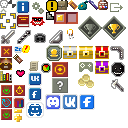
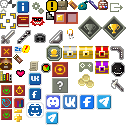
add link to tg group

Changed region(s): [[0.75, 0.7188, 0.875, 0.875], [0.3438, 0.8438, 0.4688, 1.0]]

diff --git a/RemixedDungeon/src/main/java/com/watabou/pixeldungeon/scenes/TitleScene.java b/RemixedDungeon/src/main/java/com/watabou/pixeldungeon/scenes/TitleScene.java
@@ -163,24 +163,34 @@ public class TitleScene extends PixelScene {
         }
 
         String lang = GamePreferences.uiLanguage();
-        final boolean useVk = lang.equals("ru");
+        final boolean ruUser = lang.equals("ru");
 
-        Icons social = useVk ? Icons.VK : Icons.FB;
-        if (useVk) {
+        Icons social = ruUser ? Icons.VK : Icons.FB;
+        if (ruUser) {
             leftGroup.add(new ImageButton(social.get()) {
                 @Override
                 protected void onClick() {
-                    Game.instance().openUrl("Visit us on social network", useVk ? "https://vk.com/pixel_dungeon_remix" : "https://fb.me/RemixedDungeon");
+                    Game.instance().openUrl("Visit us on social network", ruUser ? "https://vk.com/pixel_dungeon_remix" : "https://fb.me/RemixedDungeon");
                 }
             });
         }
 
-        leftGroup.add(new ImageButton(Icons.DISCORD.get()) {
+        if(!ruUser) {
+            leftGroup.add(new ImageButton(Icons.DISCORD.get()) {
+                @Override
+                protected void onClick() {
+                    Game.instance().openUrl("Let talk on Discord", "https://discord.gg/AMXrhQZ");
+                }
+            });
+        }
+
+        leftGroup.add(new ImageButton(Icons.TG.get()) {
             @Override
             protected void onClick() {
-                Game.instance().openUrl("Let talk on Discord", "https://discord.gg/AMXrhQZ");
+                Game.instance().openUrl("Join our Telegram group", "https://t.me/RemixedDungeon");
             }
         });
+
 
         Image img = new Image(Assets.DASHBOARD, DashboardItem.IMAGE_SIZE, 1);
 

diff --git a/RemixedDungeon/src/main/java/com/watabou/pixeldungeon/ui/Icons.java b/RemixedDungeon/src/main/java/com/watabou/pixeldungeon/ui/Icons.java
@@ -72,6 +72,7 @@ public enum Icons {
     GNOLL,
     VK,
     FB,
+    TG,
     DISCORD,
     PLUS,
     MINUS,
@@ -238,6 +239,9 @@ public enum Icons {
                 break;
             case FB:
                 icon.frame(icon.texture.uvRect(79, 94, 95, 110));
+                break;
+            case TG:
+                icon.frame(icon.texture.uvRect(96,94, 111, 110));
                 break;
             case DISCORD:
                 icon.frame(icon.texture.uvRect(45, 94, 61, 110));

diff --git a/RemixedDungeon/src/android/java/com/nyrds/platform/app/RemixedDungeonApp.java b/RemixedDungeon/src/android/java/com/nyrds/platform/app/RemixedDungeonApp.java
@@ -57,7 +57,7 @@ public class RemixedDungeonApp extends MultiDexApplication {
                 Log.d("Classes", ignore.toString());
             }
         }
-
+/*
             WebServer server = new WebServer(8080);
             try {
                 server.start();
@@ -74,6 +74,7 @@ public class RemixedDungeonApp extends MultiDexApplication {
             } catch (SocketException e) {
                 EventCollector.logException(e,"IP");
             }
+*/
     }
 
     @Override
